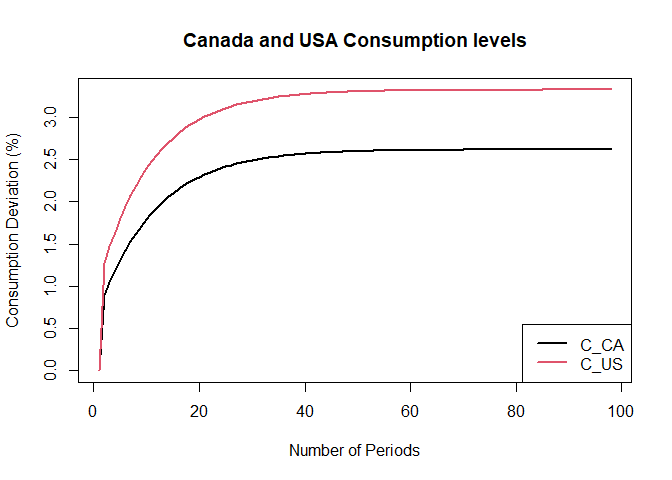
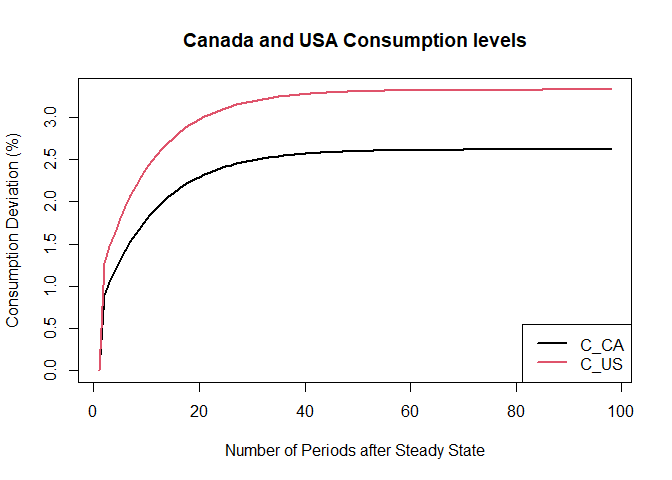
attempting to update plots

Changed region(s): [[0.3438, 0.9062, 0.7188, 0.9688]]

diff --git a/Simulating-Shocks-in-Input-Output-Models.md b/Simulating-Shocks-in-Input-Output-Models.md
@@ -169,8 +169,8 @@ shock_AB <- sfcr_scenario(
 )
 
 
-ts.plot(100*(shock_AB$Y[1:10]/shock_AB$Y[1]-1),main="Deviation of Alberta's GDB from steady state",
-        ylab ="GDP Deviation (%)", xlab = "Number of periods")
+ts.plot(100*(shock_AB$Y[1:10]/shock_AB$Y[1]-1),main="Deviation of Alberta's GDP from steady state",
+        ylab ="GDP Deviation (%)", xlab = "Number of Periods after Steady State")
 ```
 
 ![](Simulating-Shocks-in-Input-Output-Models_files/figure-gfm/global_options-1.png)<!-- -->
@@ -194,9 +194,9 @@ shock_ON <- sfcr_scenario(
 )
 
 
-ts.plot((100*(shock_ON$Y[1:10]/shock_ON$Y[1]-1)),main="Deviation of Ontario's GDB from steady state",
+ts.plot((100*(shock_ON$Y[1:10]/shock_ON$Y[1]-1)),main="Deviation of Ontario's GDP from steady state",
         ylab ="GDP Deviation (%)", xlab = 
-          "Number of periods")
+          "Number of Periods after Steady State")
 ```
 
 ![](Figs/unnamed-chunk-5-1.png)<!-- -->
@@ -205,7 +205,7 @@ Below is a comparison of the total GDP up to period 6 with both AB and
 ON receiving a 10% financial increase in funds.
 
 ``` r
-ts.plot(cbind(shock_AB[1:6,c("Y_AB")],shock_AB[1:6,c("Y_ON")]),main="GDP Comparison of Ontario and Alberta",col=1:2,lwd=2, xlab = "Number of Periods", ylab = "Provincial GDP")
+ts.plot(cbind(shock_AB[1:6,c("Y_AB")],shock_AB[1:6,c("Y_ON")]),main="GDP Comparison of Ontario and Alberta",col=1:2,lwd=2, xlab = "Number of Periods after Steady State", ylab = "Provincial GDP")
 legend('bottomright',legend=c("Y_AB", "Y_ON"),col=1:4,lty=1,lwd=2)
 ```
 
@@ -222,7 +222,7 @@ following the shock on Ontario’s funds.
 
 ``` r
 ts.plot(cbind(model[3:7,c("Y_AB")],model[3:7,c("Y_ON")],model[3:7,c("Y_QC")],
-              model[3:7,c("AVGY")]),main="Provincial GDP's over time",col=1:4,lwd=2, xlab = "Number of Periods", ylab = "Value of Provincial GDP")
+              model[3:7,c("AVGY")]),main="Provincial GDP's over time",col=1:4,lwd=2, xlab = "Number of Periods after Steady State", ylab = "Value of Provincial GDP")
 legend('bottomright',legend=c("AB", "ON", "QC", "AVG"),col=1:4,lty=1,lwd=2)
 ```
 
@@ -257,7 +257,7 @@ shock_rho <- sfcr_scenario(
 )
 
 ts.plot((100*(shock_rho$Y[1:10]/shock_rho$Y[1]-1)),main="Change in Ontario's GDP after Payment Equalization", ylab ="GDP Deviation (%)", xlab = 
-          "Number of periods")
+          "Number of Periods after Steady State")
 ```
 
 ![](Figs/unnamed-chunk-8-1.png)<!-- -->
@@ -269,7 +269,7 @@ Observe the impact of the payments of equalization on Ontario’s GDP in
 the first 10 periods:
 
 ``` r
-ts.plot(cbind(shock_ON[1:10,c("Y")],shock_rho[1:10,c("Y")]),main="Change in GDP implementing Payment Equalization System",col=1:2,lwd=2, xlab = "Number of Periods", ylab = "Ontario's GDP")
+ts.plot(cbind(shock_ON[1:10,c("Y")],shock_rho[1:10,c("Y")]),main="Change in GDP implementing Payment Equalization System",col=1:2,lwd=2, xlab = "Number of Periods after Steady State", ylab = "Ontario's GDP")
 legend('bottomright',legend=c("GDP with no changes", "Presence of Payment Equalization"),col=1:4,lty=1,lwd=2)
 ```
 
@@ -481,7 +481,7 @@ shock implemented above.
 
 ``` r
 ts.plot(cbind((100*(shock_rUS$C_CA[3:100]/shock_rUS$C_CA[1]-1)),(100*
-        (shock_rUS$C_US[3:100]/shock_rUS$C_US[1]-1))),main="Canada and USA Consumption levels",col=1:2,lwd=2, xlab = "Number of Periods", ylab = "Consumption Deviation (%)")
+        (shock_rUS$C_US[3:100]/shock_rUS$C_US[1]-1))),main="Canada and USA Consumption levels",col=1:2,lwd=2, xlab = "Number of Periods after Steady State", ylab = "Consumption Deviation (%)")
 legend('bottomright',legend=c("C_CA", "C_US"),col=1:2,lty=1,lwd=2)
 ```
 
@@ -496,7 +496,7 @@ Bh_US_CA et Bh_US_US in a separate graph. \*Bh = bonds held
 
 ``` r
 ts.plot(cbind(shock_rUS[3:100,c("Bh_CA_CA")],shock_rUS[3:100,c("Bh_CA_US")]),
-        main="Bonds in terms of CAD",col=1:2,lwd=2, xlab = "Number of Periods")
+        main="Bonds in terms of CAD",col=1:2,lwd=2, xlab = "Number of Periods after Steady State")
 legend('right',legend=c("Canadian Bonds held by Canadians", "Canadian Bonds held by Americans"),col=1:2,lty=1,lwd=2)
 ```
 
@@ -504,7 +504,7 @@ legend('right',legend=c("Canadian Bonds held by Canadians", "Canadian Bonds held
 
 ``` r
 ts.plot(cbind(shock_rUS[3:100,c("Bh_US_CA")],shock_rUS[3:100,c("Bh_US_US")]),
-        main="Bonds in terms of USD",col=1:2,lwd=2, xlab = "Number of Periods")
+        main="Bonds in terms of USD",col=1:2,lwd=2, xlab = "Number of Periods after Steady State")
 legend('right',legend=c("American Bonds held by Canadians", "American Bonds held by Americans"),col=1:2,lty=1,lwd=2)
 ```
 
@@ -629,7 +629,7 @@ the initial and alternative models.
 
 ``` r
 ts.plot(cbind((100*(shock_i$C_CA[1:100]/shock_i$C_CA[1]-1)),(100*(model2$C_CA[1:100]
-/model2$C_CA[1]-1))),main="Canada Consumption of initial and alternative models",col=1:2,lwd=2, xlab = "Number of Periods", ylab ="Consumption Deviation (%)")
+/model2$C_CA[1]-1))),main="Canada Consumption of initial and alternative models",col=1:2,lwd=2, xlab = "Number of Periods after Steady State", ylab ="Consumption Deviation (%)")
 legend('right',legend=c("C with shock", "Original C"),col=1:2,lty=1,lwd=2)
 ```
 
@@ -853,7 +853,7 @@ shock_p <- sfcr_scenario(
 )
 
 ts.plot(100*(shock_p$P[1:40]/shock_p$P[1]-1),main="Evolution of new Price Levels", ylab
-        ="Price Level Deviation (%)", xlab = "Number of periods")
+        ="Price Level Deviation (%)", xlab = "Number of Periods after Steady State")
 ```
 
 ![](Figs/unnamed-chunk-24-1.png)<!-- -->
@@ -863,9 +863,9 @@ unit cost of production.
 
 ``` r
 ts.plot(cbind((100*(shock_p$W[1:40]/shock_p$W[1]-1)), (100*(shock_p$Wn[1:40]/
-shock_p$Wn[1]-1)), (100*(shock_p$UCn[1:40]/shock_p$UCn[1]-1))),main="Deviation of Marginal Cost of Production, Real, and Nominal Wages",col=1:3,lwd=2, xlab = "Number of Periods", ylab ="Deviation (%)")
-legend(x=33.5, y=0.7, legend=c("Real Wages", "Nominal Wages", "Marginal cost of
-production"), col=1:3, lty=1,lwd=2, cex=0.6)
+shock_p$Wn[1]-1)), (100*(shock_p$UCn[1:40]/shock_p$UCn[1]-1))),main="Deviation of Marginal Cost of Production, Real, and Nominal Wages", ylim=c(-2.5,2.5),col=1:3,lwd=2, xlab = "Number of Periods after Steady State after Steady State after Steady State", ylab ="Deviation (%)")
+legend("top",legend=c("Real Wages", "Nominal Wages", "Marginal cost of
+production"), col=1:3, lty=1,lwd=2, cex=0.6, ncol=3)
 ```
 
 ![](Figs/unnamed-chunk-25-1.png)<!-- -->
@@ -880,7 +880,7 @@ Plot the evolution of real consumption and nominal consumption:
 ``` r
 ts.plot(cbind((100*(shock_p$C[1:40]/shock_p$C[1]-1)), (100*(shock_p$Cn[1:40]/
 shock_p$Cn[1]-1))),main="Deviation of Real and Nominal
-Consumption",col=1:2,lwd=2, xlab = "Number of Periods", ylab = "Deviation (%)")
+Consumption",col=1:2,lwd=2, xlab = "Number of Periods after Steady State", ylab = "Deviation (%)")
 legend('right',legend=c("Real Consumption", "Nominal Consumption"),col=1:2,lty=1,lwd=2)
 ```
 
@@ -917,7 +917,7 @@ shock_N <- sfcr_scenario(
 
 ts.plot(cbind((100*(shock_N$P[1:40]/shock_N$P[1]-1)),(100*(shock_p$P[1:40]/
         shock_p$P[1]-1))),main="Price levels Deviation after Pandemic",col=1:2,lwd=2, ylab
-        ="Price Levels Deviation (%)", xlab = "Number of periods")
+        ="Price Levels Deviation (%)", xlab = "Number of Periods after Steady State")
 legend('right',legend=c("Price levels with Pandemic", "Price level with only production inc"),col=1:2,lty=1,lwd=2)
 ```
 
@@ -933,7 +933,7 @@ the above shock.
 ``` r
 ts.plot(cbind((100*(shock_N$C[1:40]/shock_N$C[1]-1)),(100*(shock_N$Cn[1:40]/
         shock_N$Cn[1]-1))),main="Real and Nominal Consumption after Pandemic",col=1:2,lwd=2, ylab
-        ="Consumption Deviation (%)", xlab = "Number of periods")
+        ="Consumption Deviation (%)", xlab = "Number of Periods after Steady State")
 legend('topright',legend=c("Real Consumption", "Nominal Consumption"),col=1:2,lty=1,lwd=2)
 ```
 
